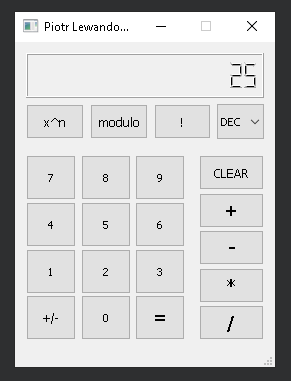
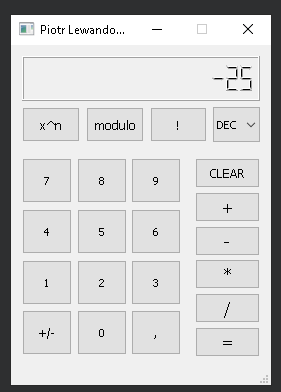
Study

diff --git a/calculator.cpp b/calculator.cpp
@@ -10,6 +10,8 @@ Calculator::Calculator(QWidget *parent) :
 
    first = true;
    math= false;
+   commaL = false;
+   commaR = false;
 
    leftS = "0";
    rightS = "0";
@@ -31,16 +33,16 @@ void Calculator::InsertValue(double value)
 {
     if(first == true)
     {
-        if(left == 0)
+        if(leftS == '0')
         {
             left = value;
             leftS = QString::number(value);
             UpdateDisplay();
         }
-        else if (left != 0)
+        else if (left != 0 || leftS == "0.")
         {
             leftS = leftS + QString::number(value);
-            left = leftS.toInt();
+            left = leftS.toDouble();
             UpdateDisplay();
         }
 
@@ -48,16 +50,16 @@ void Calculator::InsertValue(double value)
     }
     else
     {
-        if(right == 0)
+        if(rightS == '0')
         {
             right = value;
             rightS = QString::number(value);
             UpdateDisplay();
         }
-        else if (right != 0)
+        else if (right != 0 || rightS == "0.")
         {
-            leftS = leftS + QString::number(value);
-            right = leftS.toInt();
+            rightS = rightS + QString::number(value);
+            right = rightS.toDouble();
             UpdateDisplay();
         }
     }
@@ -242,6 +244,8 @@ void Calculator::on_pushButton_10_clicked()
 void Calculator::on_pushButton_11_clicked()
 {
     first = true;
+    commaL = false;
+    commaR = false;
     left = 0;
     leftS ="0";
     right = 0;
@@ -348,4 +352,25 @@ void Calculator::on_pushButton_12_clicked()
         rightS = QString::number(right);
         UpdateDisplay();
     }
+}
+// COMMA
+void Calculator::on_pushButton_20_clicked()
+{
+    if(first)
+    {
+       if(commaL == false)
+       {
+           commaL = true;
+           leftS = leftS +'.';
+       }
+    }
+    else
+    {
+        if(commaR == false)
+        {
+            commaR = true;
+            rightS = rightS + '.';
+        }
+    }
+
 }

diff --git a/calculator.h b/calculator.h
@@ -65,13 +65,15 @@ private slots:
 
     void on_pushButton_12_clicked();
 
+    void on_pushButton_20_clicked();
+
 private:
     Ui::Calculator *ui;
 
 private:
     QString rightS, leftS, resultS;
     double right,left,result;
-    bool first,math;
+    bool first,math, commaL, commaR;
     int operation;
 
     enum operations{
